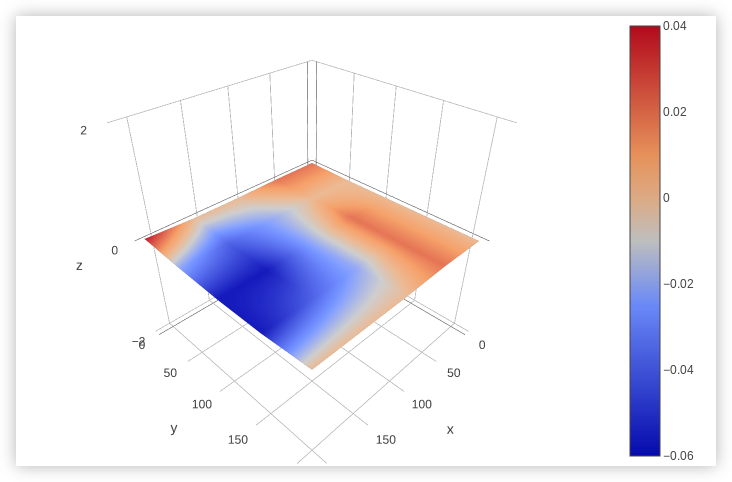
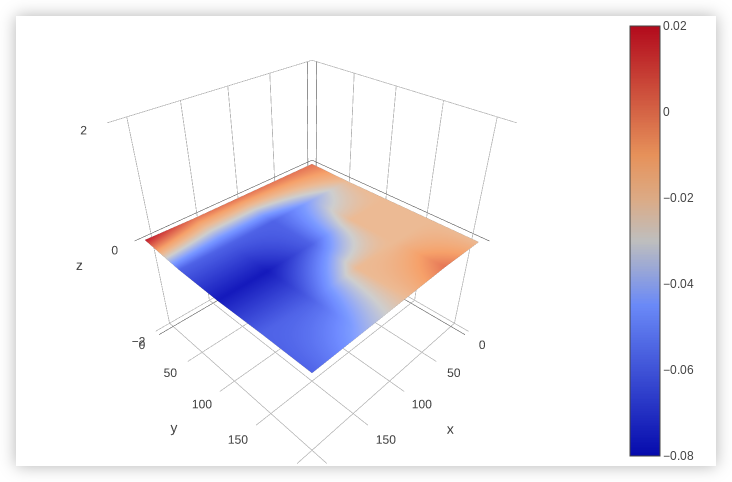
feat(mesh): Redid Bed Mesh

diff --git a/BEDMESH.md b/BEDMESH.md
@@ -2,29 +2,29 @@
 
 ```gcode
 M420 S0 Z0.00
-G29 S3 X1 Y1 Z0.02000
-G29 S3 X2 Y1 Z0.02000
+G29 S3 X1 Y1 Z0.00000
+G29 S3 X2 Y1 Z0.00000
 G29 S3 X3 Y1 Z0.00000
 G29 S3 X4 Y1 Z0.00000
-G29 S3 X5 Y1 Z0.04000
-G29 S3 X1 Y2 Z0.00000
-G29 S3 X2 Y2 Z0.00000
-G29 S3 X3 Y2 Z-0.02000
-G29 S3 X4 Y2 Z-0.04000
-G29 S3 X5 Y2 Z-0.02000
-G29 S3 X1 Y3 Z0.00000
-G29 S3 X2 Y3 Z0.02000
-G29 S3 X3 Y3 Z-0.02000
-G29 S3 X4 Y3 Z-0.06000
-G29 S3 X5 Y3 Z-0.06000
-G29 S3 X1 Y4 Z0.00000
-G29 S3 X2 Y4 Z0.02000
+G29 S3 X5 Y1 Z0.02000
+G29 S3 X1 Y2 Z-0.02000
+G29 S3 X2 Y2 Z-0.04000
+G29 S3 X3 Y2 Z-0.06000
+G29 S3 X4 Y2 Z-0.06000
+G29 S3 X5 Y2 Z-0.06000
+G29 S3 X1 Y3 Z-0.02000
+G29 S3 X2 Y3 Z-0.02000
+G29 S3 X3 Y3 Z-0.06000
+G29 S3 X4 Y3 Z-0.08000
+G29 S3 X5 Y3 Z-0.08000
+G29 S3 X1 Y4 Z-0.02000
+G29 S3 X2 Y4 Z-0.02000
 G29 S3 X3 Y4 Z-0.02000
-G29 S3 X4 Y4 Z-0.04000
+G29 S3 X4 Y4 Z-0.06000
 G29 S3 X5 Y4 Z-0.06000
-G29 S3 X1 Y5 Z0.00000
-G29 S3 X2 Y5 Z0.02000
-G29 S3 X3 Y5 Z0.00000
-G29 S3 X4 Y5 Z0.00000
-G29 S3 X5 Y5 Z0.00000
+G29 S3 X1 Y5 Z-0.02000
+G29 S3 X2 Y5 Z0.00000
+G29 S3 X3 Y5 Z-0.02000
+G29 S3 X4 Y5 Z-0.04000
+G29 S3 X5 Y5 Z-0.06000
 ```
